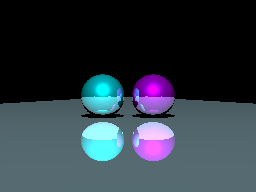
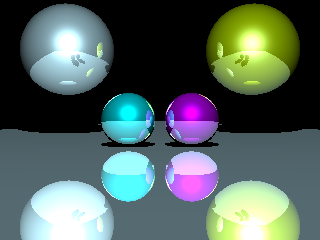
Initial tests added.

diff --git a/ray_tracing_python_native.py b/ray_tracing_python_native.py
@@ -1,3 +1,7 @@
+# References
+# https://www.realtimerendering.com/raytracing/Ray%20Tracing_%20the%20Rest%20of%20Your%20Life.pdf
+# https://github.com/mattgodbolt/pt-three-ways
+# https://www.youtube.com/watch?v=HbzTFCsiWcg
 # TODO - Create Material
 #           Static variables for colors
 
@@ -10,7 +14,7 @@ from PlanePrimitive import PlanePrimitive
 
 WIDTH = 64
 HEIGHT = 48
-SCALE = 4
+SCALE = 5
 CAMERA = Q_Vector3d(0, 0, -3.0)
 MAX_DEPTH = 3
 
@@ -18,8 +22,8 @@ objects = [
     # Spheres
     SpherePrimitive(position=Q_Vector3d(x=3.5, y=0, z=50), ambient=Q_Vector3d(0.1, 0, 0.1), diffuse=Q_Vector3d(0.7, 0, 0.7), specular=Q_Vector3d(1.0, 0, 1.0), shininess=100, reflection=1.0, radius=3.0),  # Magenta right
     SpherePrimitive(position=Q_Vector3d(x=-3.5, y=0, z=50), ambient=Q_Vector3d(0, 0.1, 0.1), diffuse=Q_Vector3d(0, 0.7, 0.7), specular=Q_Vector3d(0, 1.0, 1.0), shininess=100, reflection=1.0, radius=3.0),  # Cyan left
-    # SpherePrimitive(position=Q_Vector3d(x=16, y=12, z=40), ambient=Q_Vector3d(0.1, 0.1, 0), diffuse=Q_Vector3d(0.7, 0.7, 0), specular=Q_Vector3d(1.0, 1.0, 1.0), shininess=100, reflection=0.75, radius=8.0),  # Yellow
-    # SpherePrimitive(position=Q_Vector3d(x=-16, y=12, z=40), ambient=Q_Vector3d(0.1, 0.1, 0.1), diffuse=Q_Vector3d(0.7, 0.7, 0.7), specular=Q_Vector3d(1.0, 1.0, 1.0), shininess=100, reflection=0.75, radius=8.0),  # White
+    SpherePrimitive(position=Q_Vector3d(x=16, y=12, z=80), ambient=Q_Vector3d(0.1, 0.1, 0), diffuse=Q_Vector3d(0.7, 0.7, 0), specular=Q_Vector3d(1.0, 1.0, 1.0), shininess=100, reflection=0.75, radius=8.0),  # Yellow
+    SpherePrimitive(position=Q_Vector3d(x=-16, y=12, z=80), ambient=Q_Vector3d(0.1, 0.1, 0.1), diffuse=Q_Vector3d(0.7, 0.7, 0.7), specular=Q_Vector3d(1.0, 1.0, 1.0), shininess=100, reflection=0.75, radius=8.0),  # White
 
     # TrianglePrimitive(vertices=(Q_Vector3d(x=-13, y=0, z=10), Q_Vector3d(x=-3, y=0, z=10), Q_Vector3d(x=-8, y=5, z=10)), ambient=Q_Vector3d(0.1, 0.1, 0.1), diffuse=Q_Vector3d(0.7, 0.7, 0.7), specular=Q_Vector3d(1.0, 1.0, 1.0), shininess=100, reflection=0.5),
     # TrianglePrimitive(vertices=(Q_Vector3d(x=-13, y=0, z=10), Q_Vector3d(x=-3, y=0, z=10), Q_Vector3d(x=-8, y=-5, z=10)), ambient=Q_Vector3d(0.1, 0.1, 0.1), diffuse=Q_Vector3d(0.7, 0.7, 0.7), specular=Q_Vector3d(1.0, 1.0, 1.0), shininess=100, reflection=0.5),
@@ -43,7 +47,7 @@ objects = [
 ]
 
 lights = [
-    {'position': Q_Vector3d(0, 30, 0), 'color': Q_Vector3d(0xad / 255.0, 0xd8 / 255.0, 0xe6 / 255.0)}
+    {'position': Q_Vector3d(0, 25, 0), 'color': Q_Vector3d(0xad / 255.0, 0xd8 / 255.0, 0xe6 / 255.0)}
 ]
 
 scene = Scene(objects=objects, lights=lights)

diff --git a/tests.py b/tests.py
@@ -1,0 +1,55 @@
+import pytest
+from QFunctions.Q_Functions import Q_Vector3d
+
+
+def test_Q_Vector3d_constructor():
+    vector = Q_Vector3d(0, 1, 2)
+    assert vector.x == 0
+    assert vector.y == 1
+    assert vector.z == 2
+
+
+def test_Q_Vector3d_eq_operator():
+    vector1 = Q_Vector3d(1, 2, 3)
+    vector2 = Q_Vector3d(1, 2, 3)
+    assert vector1 == vector2
+
+
+def test_Q_Vector3d_neq_operator():
+    vector1 = Q_Vector3d(1, 2, 3)
+    vector2 = Q_Vector3d(3, 4, 5)
+    assert vector1 != vector2
+
+
+def test_Q_Vector3d_negation():
+    vector1 = Q_Vector3d(1, 2, 3)
+    assert vector1 * -1 == Q_Vector3d(-1, -2, -3)
+    assert Q_Vector3d.NORM_YAXIS() * -1 == Q_Vector3d(0, -1, 0)
+    assert -1 * vector1 == Q_Vector3d(-1, -2, -3)
+
+
+def test_Q_Vector3d_dot_product():
+    vector = Q_Vector3d(0, 1, 0)
+    assert vector.dot_product(Q_Vector3d(4, 5, 6)) == 5
+    assert Q_Vector3d(1, 2, 3).dot_product(Q_Vector3d(4, 5, 6)) == 1 * 4 + 2 * 5 + 3 * 6
+
+
+def test_Q_Vector3d_cross_product():
+    assert Q_Vector3d.NORM_XAXIS().cross_product(Q_Vector3d.NORM_YAXIS()) == Q_Vector3d.NORM_ZAXIS()
+    assert Q_Vector3d(1, 2, 3).cross_product(Q_Vector3d(4, 5, 6)) == Q_Vector3d(-3, 6, -3)
+
+
+def test_Q_Vector3d__str__():
+    assert str(Q_Vector3d(1, 2, 3)) == '{1.0, 2.0, 3.0}'
+
+
+def test_Q_Vector3d_axes():
+    assert Q_Vector3d.NORM_XAXIS() == Q_Vector3d(1, 0, 0)
+    assert Q_Vector3d.NORM_YAXIS() == Q_Vector3d(0, 1, 0)
+    assert Q_Vector3d.NORM_ZAXIS() == Q_Vector3d(0, 0, 1)
+
+
+def test_Q_Vector3d_reflected():
+    incoming = Q_Vector3d(1, -1, 0)
+    surface_normal = Q_Vector3d(0, 1, 0).normalized()
+    assert incoming.reflected(surface_normal) == Q_Vector3d(1, 1, 0)

diff --git a/Scene.py b/Scene.py
@@ -82,8 +82,6 @@ class Scene:
                             break
 
                         intersection_point = origin + direction * distance_to_object
-                        # Need to create a structure that can return the distance and normal from the object
-                        # normal_to_surface = (intersection_point - nearest_object.position).normalized() if type(nearest_object) == SpherePrimitive else nearest_object.face_normal * -1
                         shifted_point = intersection_point + normal_to_surface * 1e-5
                         direction_from_intersection_to_light = (self.lights[0]['position'] - shifted_point).normalized()
 
@@ -110,7 +108,7 @@ class Scene:
                         # Specular lighting
                         intersection_to_camera = (camera_position - intersection_point).normalized()
                         H = (direction_from_intersection_to_light + intersection_to_camera).normalized()
-                        illumination += nearest_object.specular * self.lights[0]['color'] * (normal_to_surface.dot_product(H)) ** (nearest_object.shininess / 4)  # nearest_object['shininess']
+                        illumination += nearest_object.specular * self.lights[0]['color'] * (normal_to_surface.dot_product(H)) ** (nearest_object.shininess / 4)
 
                         # Reflection
                         color_value += illumination * reflection
